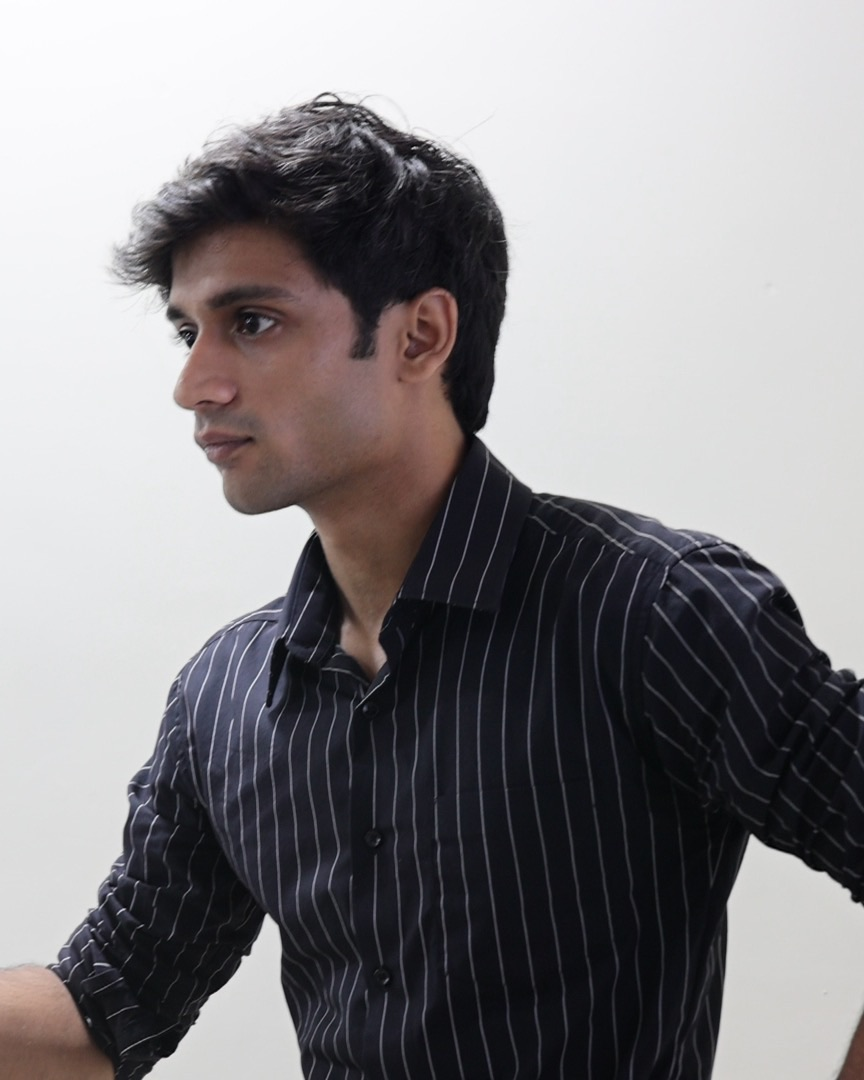
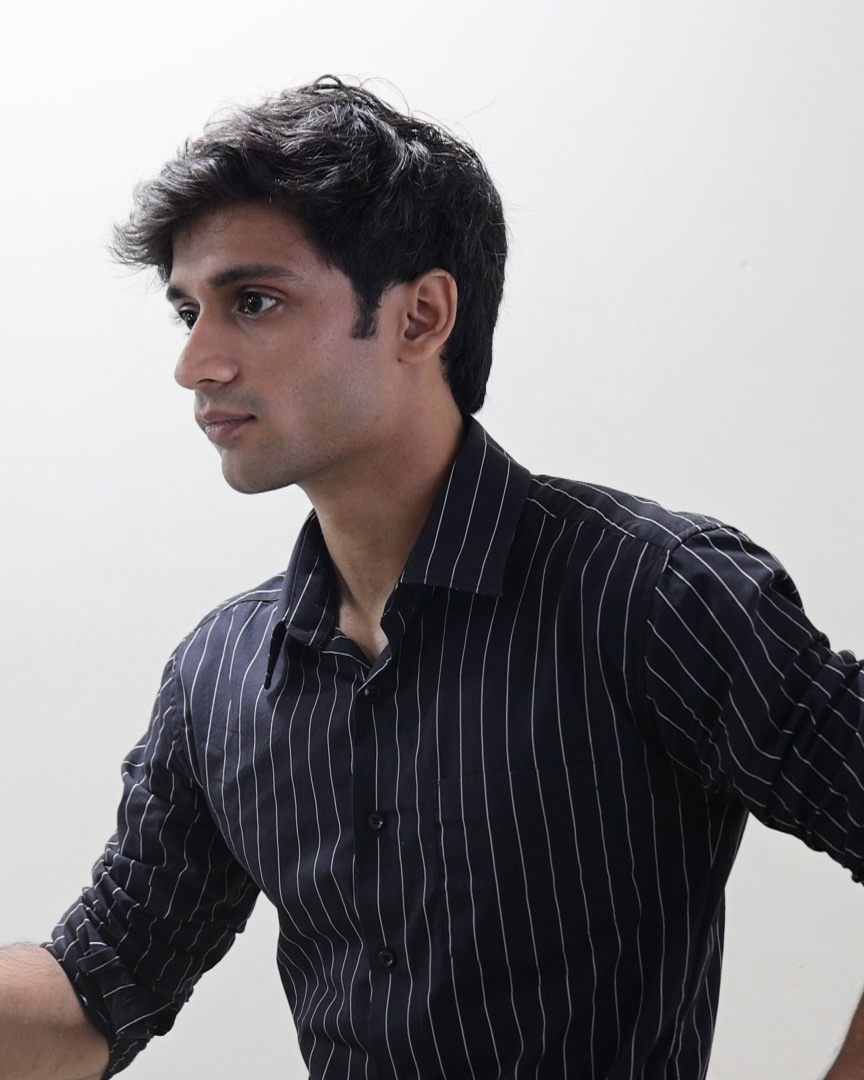
Sharper About photo
Swap in a crisper frame of the side portrait, exported at quality 92, and
serve it at image quality 90 instead of the default 75 (added to the
images.qualities allowlist Next.js 16 requires), so the face and shirt
stripes no longer look soft on large, sharp screens.

Changed region(s): [[0.0, 0.0611, 1.0, 1.0], [0.75, 0.825, 0.8438, 1.0], [0.9375, 0.9167, 1.0, 1.0]]

diff --git a/next.config.ts b/next.config.ts
@@ -8,6 +8,11 @@ const nextConfig: NextConfig = {
   experimental: {
     agentFeedback: true,
   },
+  images: {
+    // 75 is the default; 90 is for the About portrait, where faces and
+    // fine shirt stripes look soft at 75 on large, sharp screens.
+    qualities: [75, 90],
+  },
   cacheComponents: true,
   partialPrefetching: true,
   turbopack: {

diff --git a/components/About.tsx b/components/About.tsx
@@ -21,6 +21,7 @@ export function About() {
               alt="Imtiyaz Sayyid"
               fill
               placeholder="blur"
+              quality={90}
               sizes="(min-width: 1280px) 460px, (min-width: 1024px) 36vw, (min-width: 424px) 384px, calc(100vw - 40px)"
               className="object-cover"
             />
